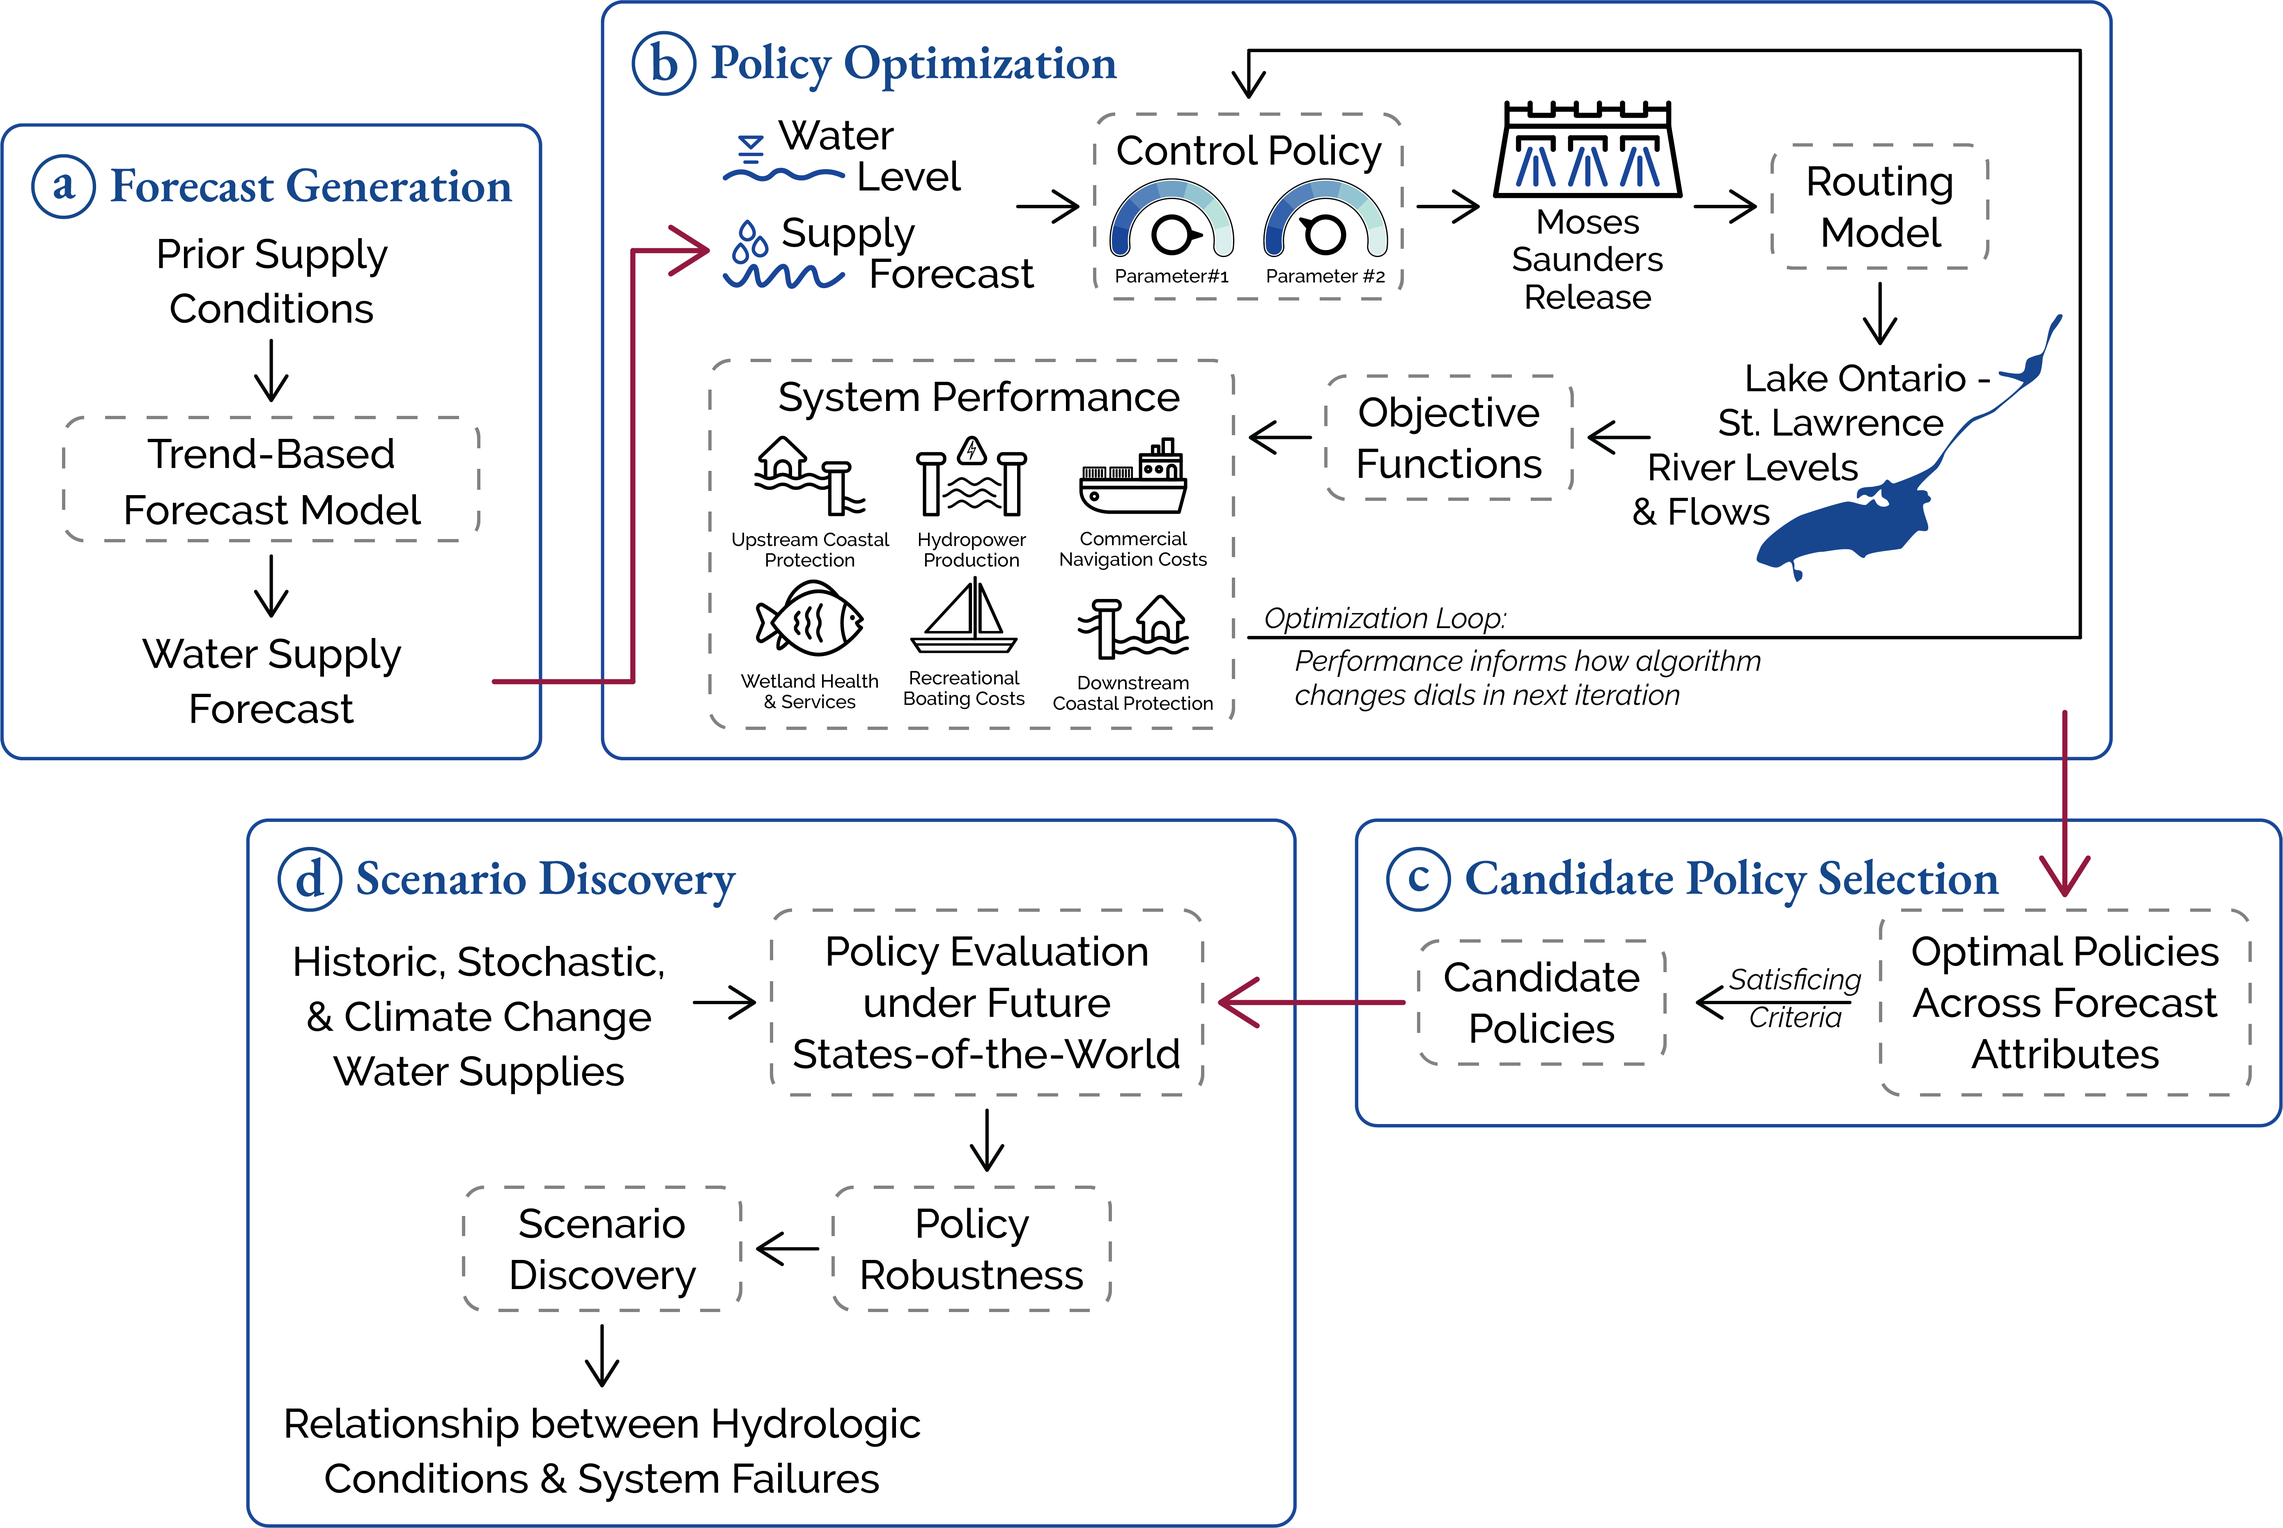
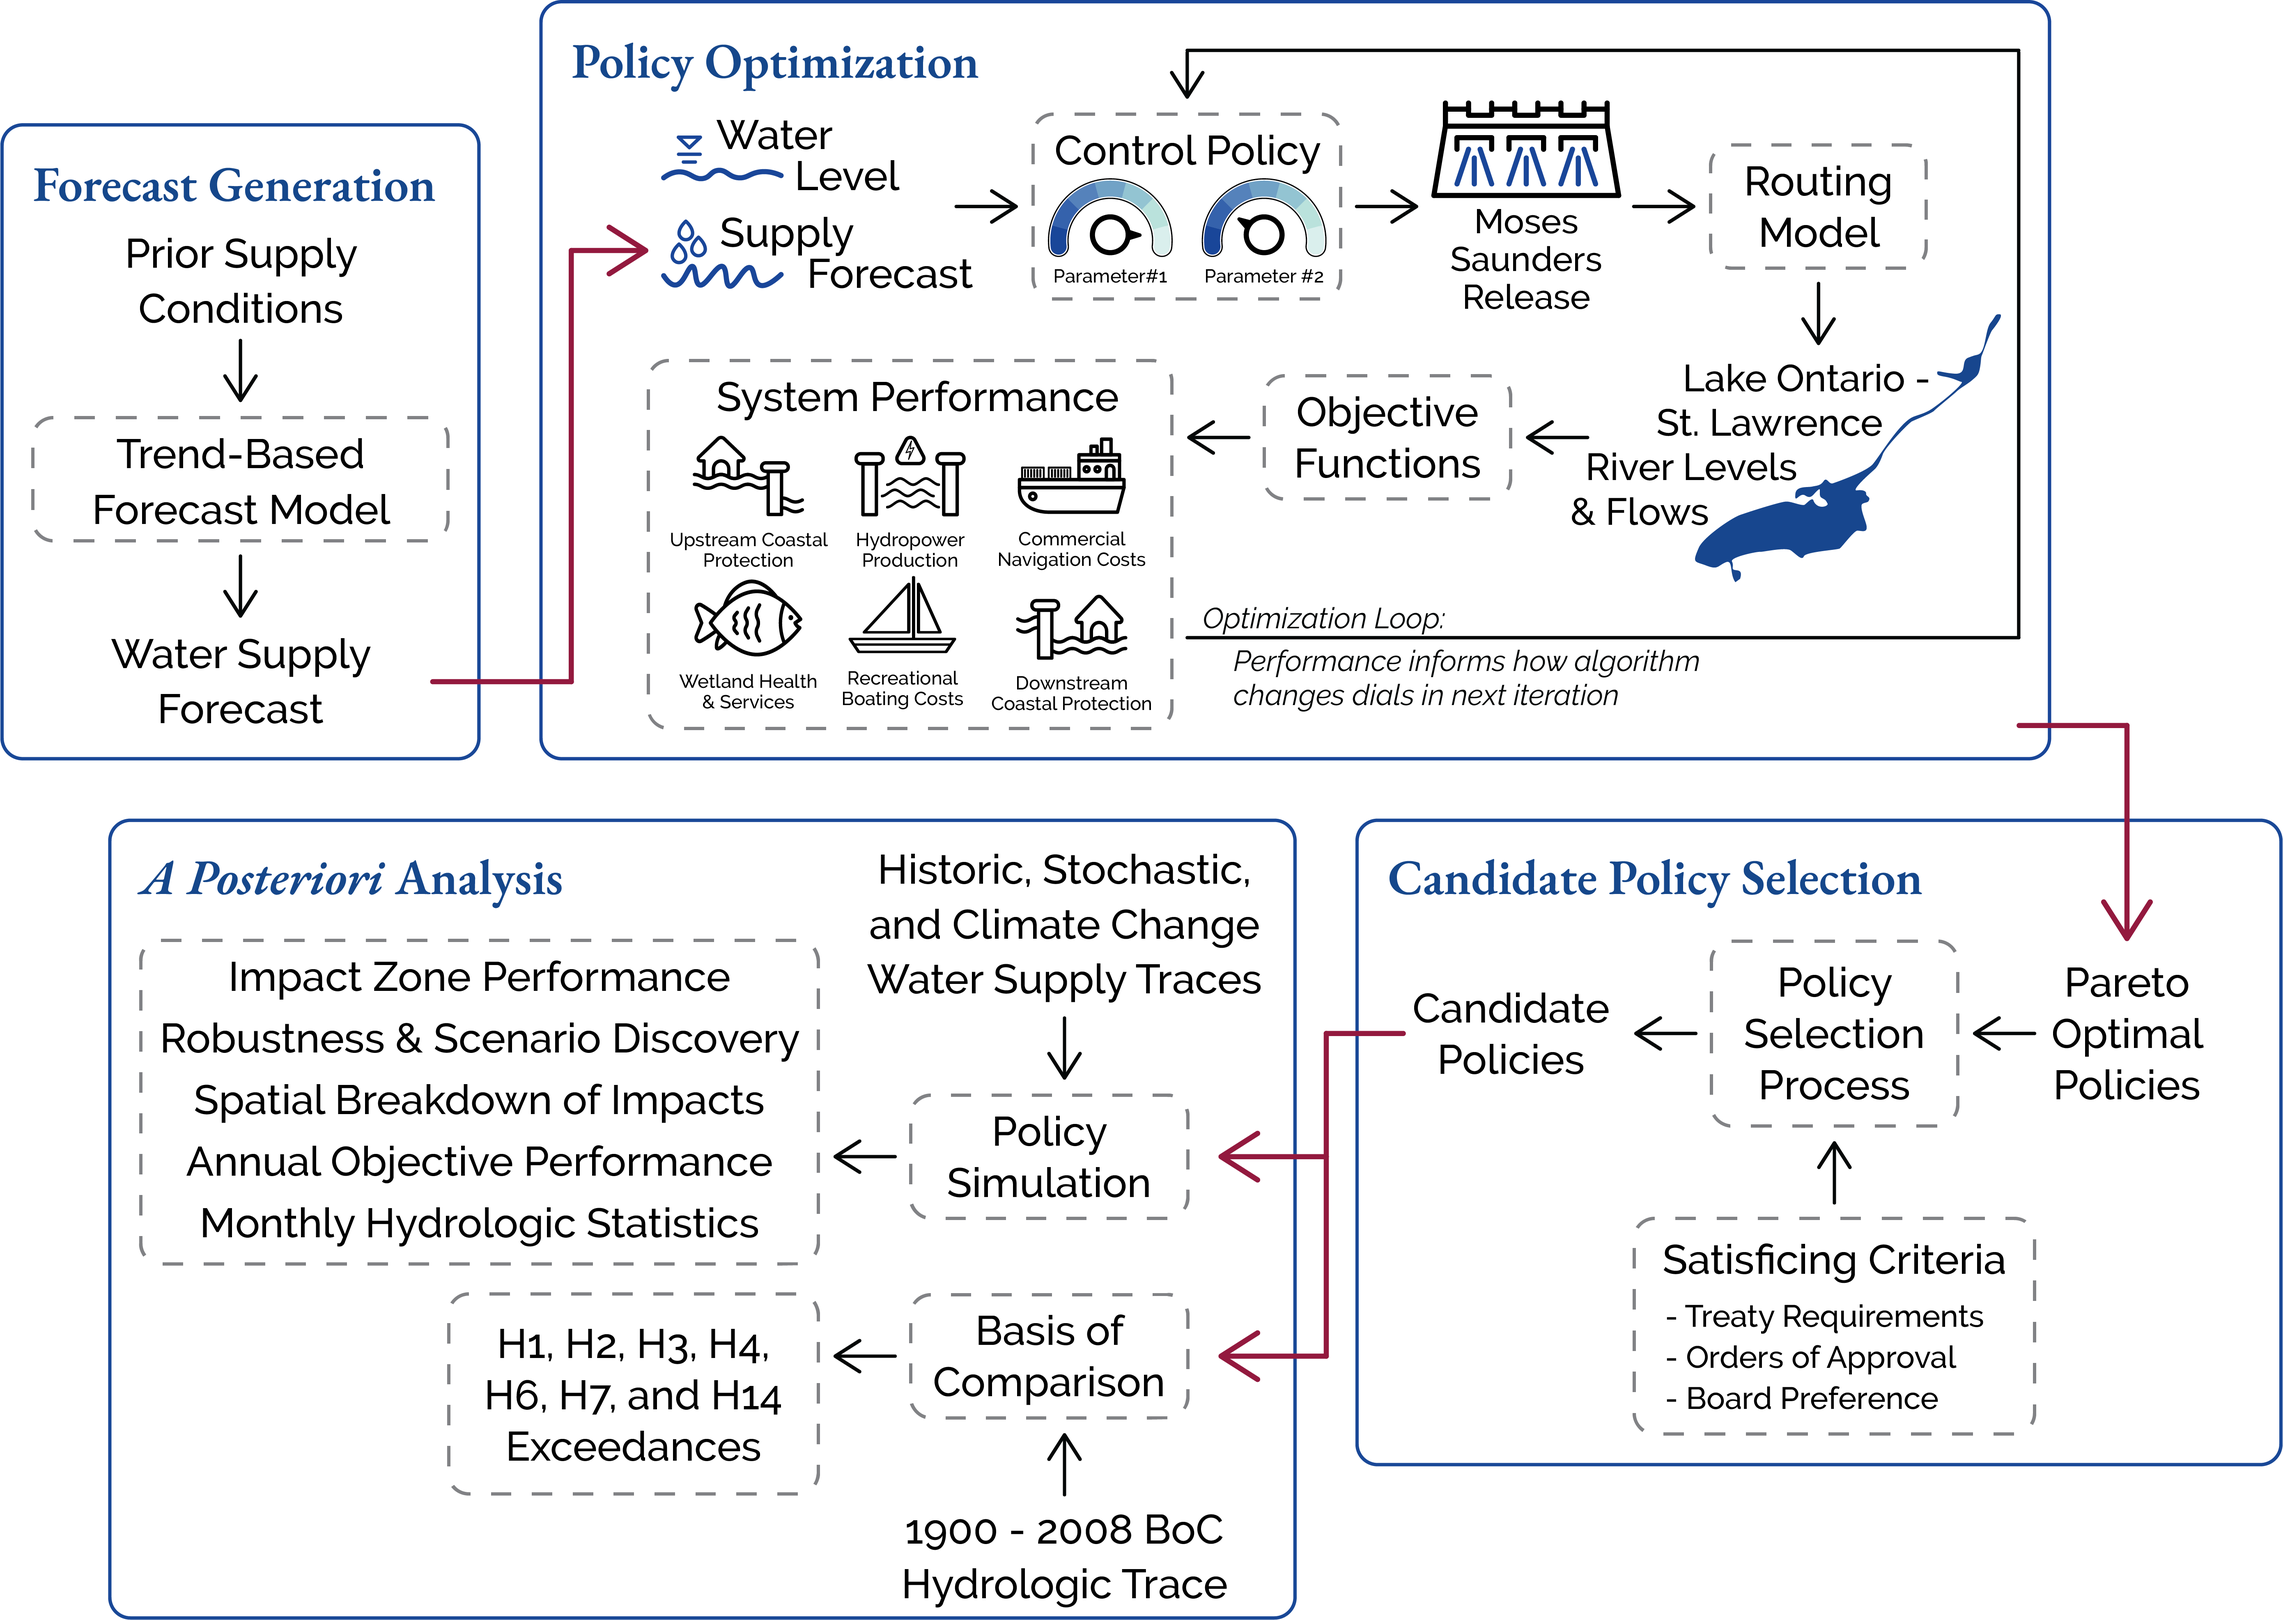
update readme

diff --git a/README.md b/README.md
@@ -1,10 +1,8 @@
 # Optimization of Lake Ontario Flow Regulation
 
-This repo contains code to generate water supply forecasts, optimize flow regulation plans, assess policy robustness across plausible climate scenarios, and explore results in an interactive dashboard.
+This repo contains code to generate water supply forecasts, optimize flow regulation plans, assess policy performance across plausible future climate conditions, and explore results in an interactive dashboard.
 
 <br>
-
-<mark>update workflow to better represent postScripts</mark>
 
 ![workflow](resources/workflow.png)
 
@@ -26,10 +24,6 @@ This repo contains code to generate water supply forecasts, optimize flow regula
 
 # Overview
 
-<!-- <details>
-<summary><h2>Overview</h2></summary>
-</details> -->
-
 This section describes the current flow regulation plan of the LOSLR system, key decision variables that are optimized within Plan 2014 to discover new, alternative control policies, and objective functions that measure system performance for alternative control policies.
 
 ## Plan 2014
@@ -41,53 +35,120 @@ The forecasted supply index, $NTS_{fcst}$, at any given quarter-month, $q$, is c
 $$ NTS_{prev} = \overline {NTS_{q - 49} : NTS_{q - 1}} $$
 $$ NTS_{fcst} = AR_{1}(NTS_{prev}) $$
 
+Confidence intervals, ${CI}_{50}$ and ${CI}_{99}$, are applied to the $NTS_{fcst}$ term to calculate upper and lower limits:
+
+$$
+NTS_{99} = NTS_{fcst} \pm {CI}_{99}
+\:\:\:\:\:\:\:\:\:\:
+NTS_{50} = NTS_{fcst} \pm {CI}_{50}
+$$
+
+$NTS_{fcst}$, $NTS_{99}$, and $NTS_{50}$  are compared to thresholds of wet and dry supplies, $T_{w}$ and $T_{d}$, to determine if future conditions are wet, average, or dry and confidence in those future conditions.
+
 The sliding rule curve function is based on the pre-project release, $R_{pp}$, conditions, which is calculated using the open-water stage-discharge relationship:
 
 $$ 
 R_{pp} = 555.823 * (Level_{Ont} - 0.035 - 69.474)^{1.5} 
 $$
 
-The $R_{pp}$ flow amount is adjusted based on recent supply conditions to get the rule curve release, $R_{rc}$, amount:
+The $R_{pp}$ flow amount is adjusted up or down, $A_{w}$ and $A_{d}$, based on recent supply conditions to get the rule curve release, $R_{rc}$, amount:
+
+<!-- $$ 
+R_{rc} = \left\{
+\begin{array}{ll}
+R_{pp} + \displaystyle \left[ \frac {NTS_{fcst} - NTS_{avg}} {NTS_{max} - NTS_{avg}} \right] ^ {P_1} * C_1 & NTS_{fcst} \ge T_{rc} \\
+\\
+R_{pp} - \displaystyle \left[ \frac {NTS_{avg} - NTS_{fcst}} {NTS_{avg} - NTS_{min}} \right] ^ {P_2} * C_2 & NTS_{fcst} \lt T_{rc} \\
+\end{array} 
+\right. 
+$$ -->
 
 $$ 
-R_{rc} =  \left\{
+R_{rc} = \left\{
 \begin{array}{ll}
-R_{pp} + \displaystyle \left[ \frac {NTS_{fcst} - NTS_{avg}} {NTS_{max} - NTS_{avg}} \right] ^ {P_1} * C_1 & NTS_{fcst} \ge NTS_{avg} \\
+R_{pp} + A_{w} ^ {P_1} * C_1 & NTS_{fcst} \ge T_{rc} \\
 \\
-R_{pp} - \displaystyle \left[ \frac {NTS_{avg} - NTS_{fcst}} {NTS_{avg} - NTS_{min}} \right] ^ {P_2} * C_2 & NTS_{fcst} \lt NTS_{avg} \\
+R_{pp} - A_{d} ^ {P_2} * C_2 & NTS_{fcst} \lt T_{rc} \\
+\end{array} 
+\right. 
+\\[15pt]
+A_{w} = \displaystyle \left[ \frac {NTS_{fcst} - NTS_{avg}} {NTS_{max} - NTS_{avg}} \right]
+\:\:\:\:\:\:\:\:\:\:
+A_{d} = \displaystyle \left[ \frac {NTS_{avg} - NTS_{fcst}} {NTS_{avg} - NTS_{min}} \right]
+$$
+
+
+where $NTS_{max}$ is the historical maximum annual average NTS, $NTS_{min}$ is the historical minimum annual average NTS, $NTS_{avg}$ is the historical average annual average NTS the threshold that designates which regime to follow. The historical values in Plan 2014 were calculated from the period of record from 1900 through 2000. 
+
+The multipliers, $C_{1}$ and $C_{2}$, and exponents, $P_{1}$ and $P_{2}$, are sets of constants some of which are determined by comparing the forecasted supply to a threshold of wet conditions, $T_{w}$, and forecast confidence, ${CI}_{99}$. When there is high confidence in wet basin conditions, releases increase by setting $C_{1}$ to $C_{1w}$ from $C_{1m}$:
+
+$$ 
+C_{1} = \left\{
+\begin{array}{ll}
+C_{1w} & NTS_{fcst} - {CI}_{99} \ge T_{w} \\
+\\
+C_{1m} & otherwise \\
 \end{array} 
 \right. 
 $$
+
+During extremely dry conditions (designated when water levels fall below some threshold, $L_{d}$), the rule curve release is further reduced by $F_{d}$:
+
+$$ 
+R_{rc} = \left\{
+\begin{array}{ll}
+R_{rc} - F_{d} & Level_{Ont} \lt L_{d} \\
+\\
+R_{rc} & otherwise \\
+\end{array} 
+\right. 
+$$
+
+Between September 1st and December 31, releases are increased if lake levels are dangerously high to reach target level, ${L}_{r}$:
+
+$$ 
+R_{rc} = \left\{
+\begin{array}{ll}
+R_{rc} + \displaystyle \left[ \frac {(Level_{Ont} - {L}_{r}) * 2970} {Q_{e} - q + 1} \right] & Q_{s} \le q \le Q_{e}, \:\: Level_{Ont} \gt {L}_{r} \\
+\\
+R_{rc} & otherwise \\
+\end{array} 
+\right.
+$$
+
+where $Q_{s}$ is the starting quarter-month, September 1 (QM32), and $Q_{e}$ is the ending quarter-month, December 31 (QM48).
 
 The $R_{rc}$ prescribed flow is then checked against a series of flow limits, which are embedded within Plan 2014 to protect various system needs and interests. For example, the I-limit constrains flows during ice formation to prevent an ice jam and the L-limit constrains flows during navigation season to maintain safe velocities for ship navigability. More information on flow limits can be found in the [Plan 2014 Compendium Report](resources/Plan2014_CompendiumReport.pdf).
 
 <br>
 
 ## Forecast Generation
-<mark>Write-up</mark>
+The parameters of the AR1 forecast model (first-order autocorrelation coefficient and shift) in Plan 2014 were calibrated using the historical data from 1900 through 2000. Using the same trend-based forecast structure, we create new forecasts at the 1, 3, 6, and 12-month lead-times. For example, rather than averaging the previous 48 quarter-months of water supplies for the 12-month lead time, we average the previous 24 quarter-months of water supplies for the 6-month lead time. We refit the parameters in the AR1 forecast model for each lead-time using historic NTS data from 1900 through 2020. For each forecast lead-time, we create forecasts using the baseline trend-model skill as well as perfect skill (i.e., perfect insight into future conditions).
 
 <br>
 
 ## Control Policy Optimization
-<mark>Given legal and regulatory operating requirement, we optimize key decision variable in the rule curve function and leave the flow limits as is. </mark>
+Given legal and regulatory operating requirement, we optimize key decision variable in the rule curve function and leave the flow limits as is. The optimization currently includes 17 decision variables from the forecasting and rule cruve functions, including:
+
+- Forecast confidence intervals
+    - ${CI}_{50}$, ${CI}_{99}$
+- Forecast wet and dry thresholds 
+    - $T_{w}$, $T_{d}$
+- Rule curve coefficients and exponents
+    - $C_{1m}$, $C_{1w}$, $C_{2}$, $P_{1}$, $P_{2}$
+- Rule curve threshold and flow adjustments
+    - $T_{rc}$, $A_{w}$, $A_{d}$
+- Rule curve dry period adjustments
+    - $L_{d}$, $F_{d}$
+- Rule curve high level adjustments
+    - ${L}_{r}$, ${Q}_{s}$, and ${Q}_{e}$.
+
+Upper and lower bounds of the decision variables are set to $\pm$ 75% of their current value in Plan 2014.
 
 <br>
 
 ## Objective Functions
 There are 7 objective functions used to measure policy performance:
-
-<!-- <details>
-<summary><h2>Overview</h2></summary>
-</details> -->
-
-<!-- <ol>
-<li> <details> <summary> <h4> Upstream flooding impacts </h4> </summary>
-  <details><summary>World</summary><blockquote>
-    :smile:
-  </blockquote></details>
-</blockquote></details>
-</li>
-</ol> -->
 
 1) **Upstream flooding impacts**
     - *Unit:* Number of homes flooded
@@ -123,9 +184,12 @@ The **net annual average** values for each objective function are used as the me
 ## *A Posteriori* Analysis
 Given the computational constraints, only 7 objective functions can be used to optimize control policies. However, there are additional criteria a plan must meet in order to be considered a candidate plan, including:
 
-1) <mark>###</mark>
-2) <mark>###</mark>
-3) <mark>###</mark>
+1) Basis of Comparison (H-Criteria)
+2) Impact Zone Performance
+3) Policy Robustness and Scenario Disovery
+4) Spatial Breakdown of Impacts
+5) Annual Objective Performance
+6) Monthly Hydrologic Statistics
 
 Data and code to simulate these additional performance indicators are located in the `output/postScripts` directory.
 
@@ -137,6 +201,8 @@ Data and code to simulate these additional performance indicators are located in
 
 Before any runs, you will need to download and compile the many-objective evolutionary algorithm, [Borg](https://doi.org/10.1162/EVCO_a_00075). A two-part tutorial on setup (with an example) is available [here](https://waterprogramming.wordpress.com/2015/06/25/basic-borg-moea-use-for-the-truly-newbies-part-12/) by the Reed Lab at Cornell University. Once you have compiled Borg, you can introduce new simulation and evaluation problems.
 
+You'll need to move the `borg.c`, `borg.py`, and `libborg.so` to the directory with your wrapper script.
+
 <br>
 
 ## Demo
@@ -144,9 +210,13 @@ In this example, the `plan2014_wrapper.py` script talks to Borg. In the wrapper 
 
 The wrapper script points to an external simulation-evaluation function, in this case `plan2014_optim.py`. The simulation function takes in an array of decision variables, simulates the time series of water levels and flows over a given supply sequence, calculates objective performance over the time series, and returns an array of length n, where n is the number of objectives, to Borg.
 
-You'll need to move the `borg.c`, `borg.py`, and `libborg.so` to the directory with your wrapper script.
+You can run Borg on your local machine from the command line or on a HPC (see example SLURM script, [`runOptimization.sh`](./runOptimization.sh)).
 
-<mark>ADD COMMANDS FOR RUNNING LOCALLY OR ON HPC</mark>
+To optimize the 17 decision variables over historic trace using the status quo forecast model within Plan 2014, run the following command and point to a directory, `FN`, specify the number of seeds to run, :
+```
+python plan2014_wrapper.py {FN} {TRACE} {LEADTIME} {SKILL} {N_SEEDS} {NFE} {POPSIZE} {REPORT} {DVBOUNDS} {NDVS}
+```
+
 
 <br>
 
